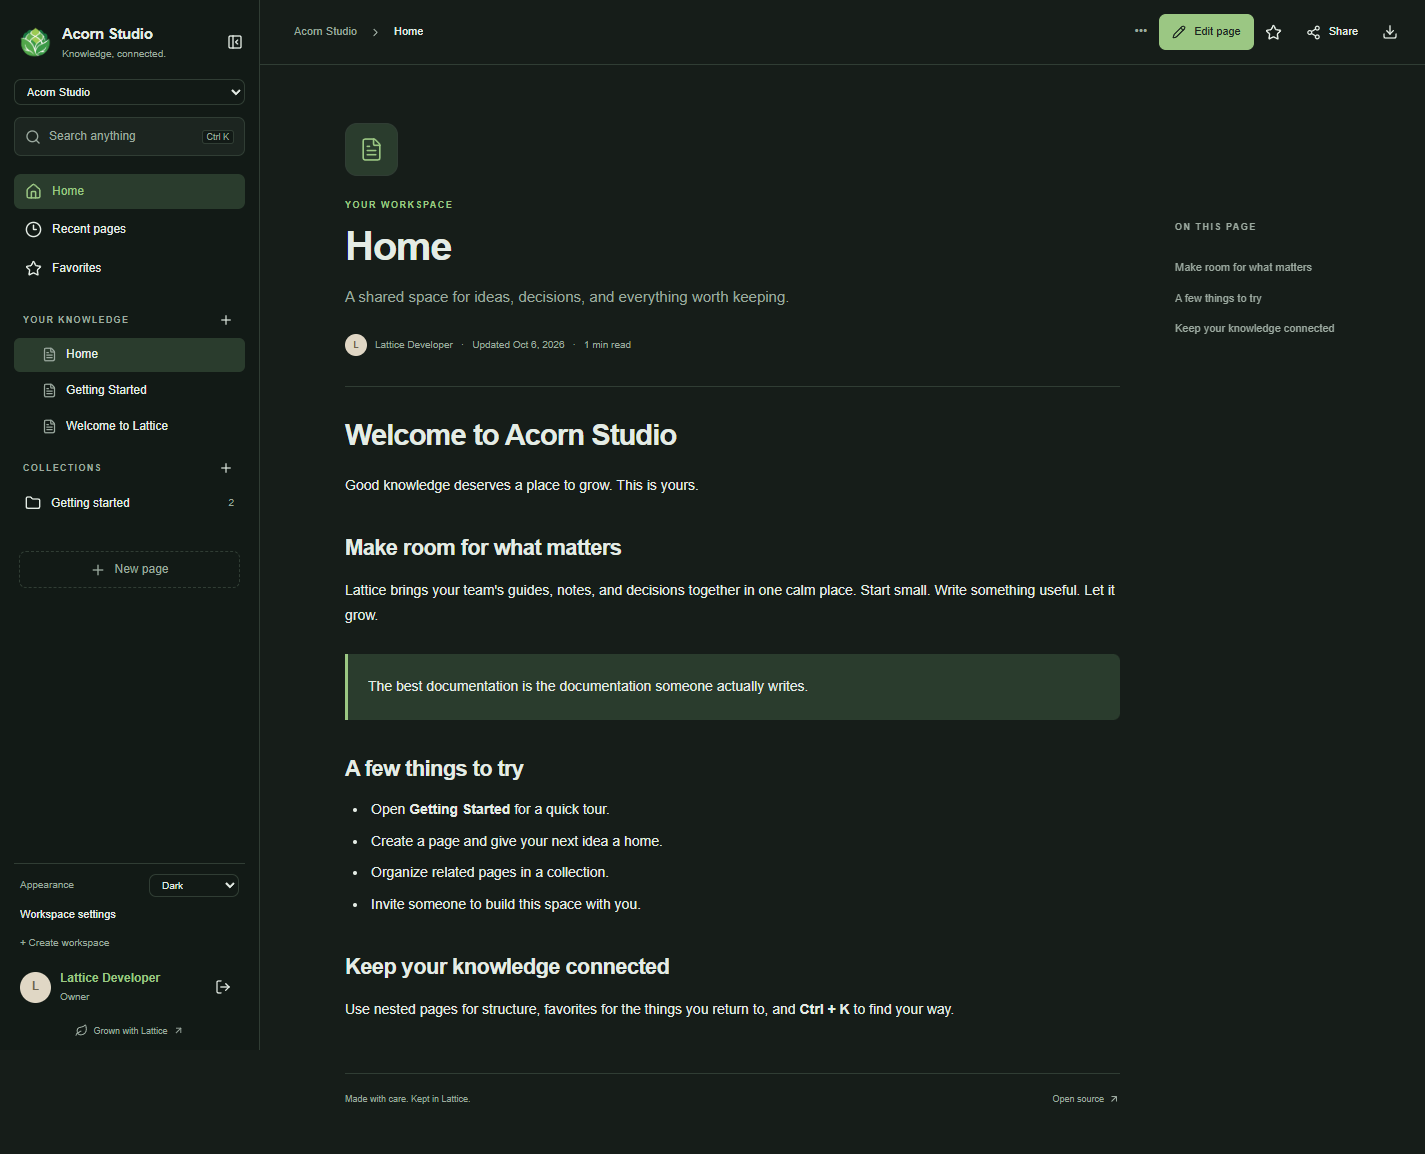
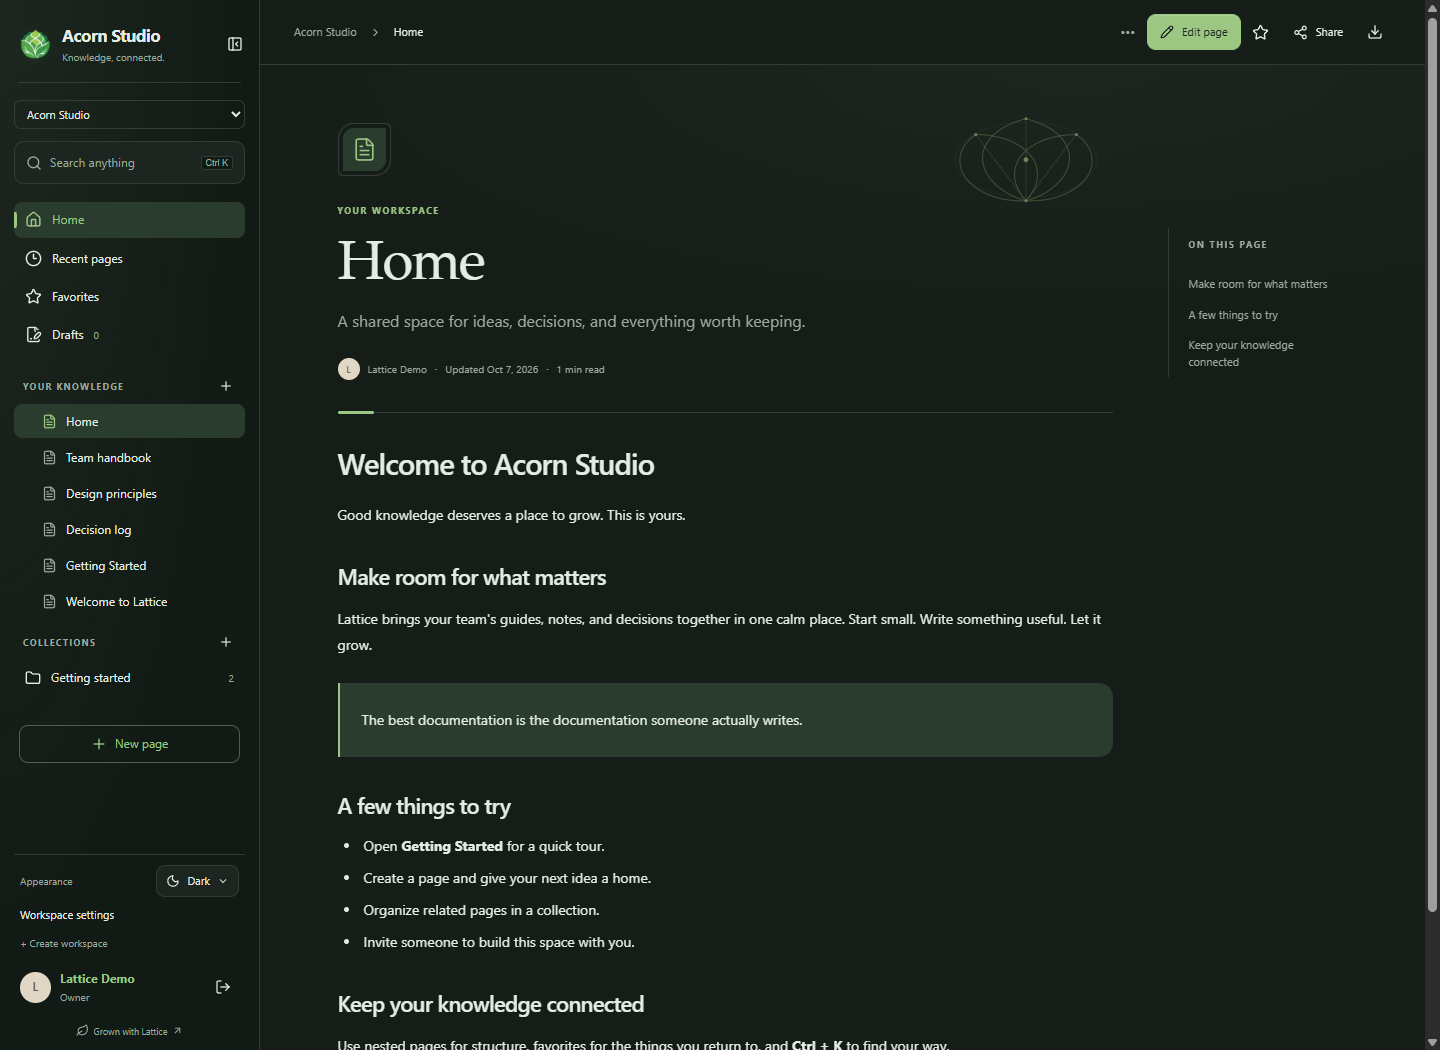
Refresh README artwork and capture current Lattice interface

diff --git a/docs/images/README.md b/docs/images/README.md
@@ -1,0 +1,16 @@
+# README artwork and screenshots
+
+The screenshots were captured on October 7, 2026 from the running Lattice interface at commit `b5a0c43`, using a separate **Acorn Studio** sample workspace. All names and document contents belong to that fixture. No production account, personal workspace, or private document appears in these images.
+
+| Asset               | Subject                                                                  |
+| ------------------- | ------------------------------------------------------------------------ |
+| `readme-hero.svg`   | Original vector banner using Lattice's green palette and botanical motif |
+| `workspace.png`     | Workspace reading view in light mode                                     |
+| `dark-mode.png`     | The same workspace in dark mode                                          |
+| `editor.png`        | Rich-text editing of the sample Design principles page                   |
+| `documentation.png` | Documentation settings after the form has loaded                         |
+| `theme-picker.png`  | The custom Light, Dark, and System appearance menu                       |
+
+Screenshots use a 1440 × 1050 viewport at 1× scale with reduced motion enabled. They show the actual UI without compositing or retouching. The original project logo remains in `public/lattice-logo.png`.
+
+When refreshing these files, use an isolated database, wait for fonts and asynchronous panels to finish loading, and review every capture. Keep credentials, personal data, development errors, and transient loading screens out of published images. The main README uses a `<picture>` element to choose the light or dark workspace image.
